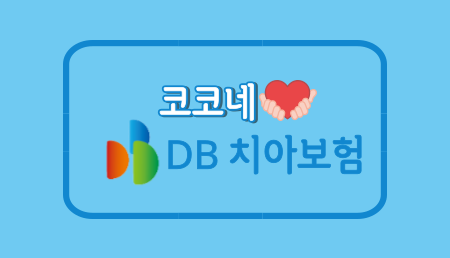
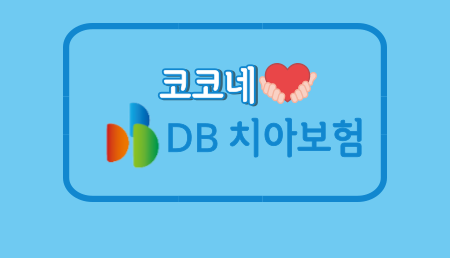
펫보험 하단 치아보험 링크 삽입

Changed region(s): [[0.2178, 0.2481, 0.8089, 0.7132], [0.1244, 0.7132, 0.8711, 0.8682], [0.1244, 0.062, 0.8711, 0.2481]]

diff --git a/src/main/webapp/resources/styles/petcss.css b/src/main/webapp/resources/styles/petcss.css
@@ -87,6 +87,15 @@
 	padding-bottom: 50px;
 }
 
+.other_ment {
+	padding-top: 50px;
+	padding-bottom: 30px;
+}
+
+#teeth_button {
+	padding-bottom: 50px;
+}
+
 body, html {
 	background-color: #F7F7F7;
 	margin: 0;
